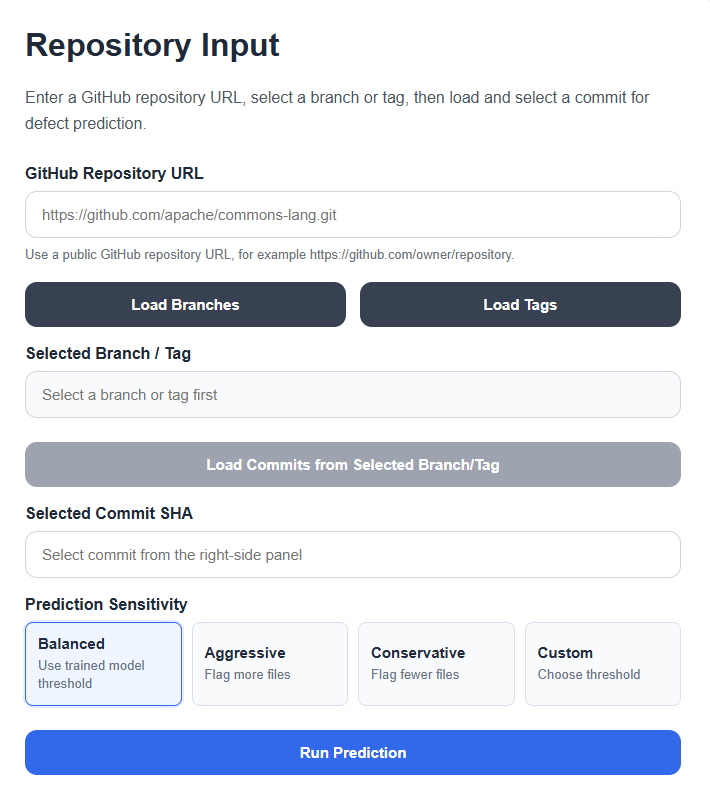
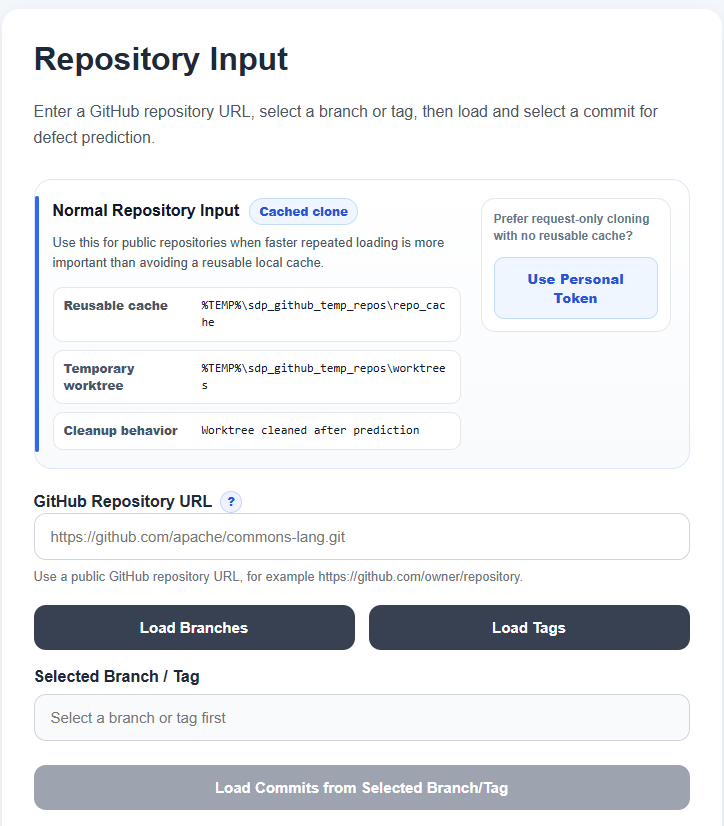
Update README.md

diff --git a/README.md b/README.md
@@ -14,26 +14,73 @@ The system combines GitHub repository inspection, static code metric extraction,
 a trained machine learning model, prediction history, report export, and a
 developer-friendly explanation page.
 
-## Application Preview
+## Application Showcase
 
-### Home Page
+The application is designed as a complete defect prediction workflow: introduce
+the system, select a repository commit, run prediction, review the risk
+dashboard, inspect file-level explanations, and revisit previous prediction
+runs.
 
-![SDP for GitHub home page](readme-assets/HomePage.png)
+### 1. Home Page
 
-### Repository Input Page
+The home page introduces the purpose of SDP for GitHub in student-friendly
+language. It explains risk probability, prediction threshold, and SHAP-style
+explanation before the user starts.
 
-![Repository input page](readme-assets/InputPage.png)
+<p align="center">
+  <img src="readme-assets/HomePage.png" alt="SDP for GitHub home page" width="900" />
+</p>
+
+### 2. Repository Input
+
+The repository input page lets the user enter a GitHub repository URL, choose a
+branch or tag, select a commit, and configure prediction sensitivity. It also
+explains the normal cached clone mode and the request-only PAT clone mode.
+
+<p align="center">
+  <img src="readme-assets/InputPage.png" alt="Repository input page" width="900" />
+</p>
+
+### 3. Prediction Dashboard
+
+After prediction completes, the dashboard summarizes the result with high,
+medium, and low risk counts, average risk, highest-risk file, riskiest folder,
+and language-level risk charts.
+
+<p align="center">
+  <img src="readme-assets/PredictionDashboard.png" alt="Prediction dashboard" width="900" />
+</p>
+
+### 4. File-Level Prediction Results
+
+The result table supports sorting, filtering, row selection, metric value review,
+plain-language explanations, and export selection. This helps the user move from
+an overall dashboard into specific files that may need review.
+
+<p align="center">
+  <img src="readme-assets/PredictionResult.png" alt="Prediction result table" width="900" />
+</p>
+
+### 5. Prediction History
+
+Completed prediction runs are saved into SQLite so users can revisit earlier
+results without immediately rerunning the same analysis.
+
+<p align="center">
+  <img src="readme-assets/History.png" alt="Prediction history page" width="900" />
+</p>
 
 ## What The Application Does
 
-1. Accepts a public GitHub repository URL.
-2. Loads repository branches, tags, and commits.
-3. Lets the user select a commit for analysis.
-4. Extracts static code metrics from supported source files.
-5. Predicts whether each file is likely to be defect-prone.
-6. Displays a risk dashboard, detailed file results, and model explanations.
-7. Saves completed predictions to SQLite for long-term history.
-8. Exports prediction results as a CSV report.
+| Step | Description |
+| --- | --- |
+| 1. Repository input | Accepts a GitHub repository URL and loads branches, tags, and commits. |
+| 2. Commit selection | Lets the user choose the exact commit to analyze. |
+| 3. Metric extraction | Extracts static code metrics and commit-history process metrics from supported files. |
+| 4. ML prediction | Predicts file-level defect risk using the trained model. |
+| 5. Explanation | Shows important metric values and plain-language reasoning for each file. |
+| 6. Dashboard review | Summarizes risk distribution, highest-risk files, folders, and language-level trends. |
+| 7. History and export | Saves completed runs to SQLite and exports selected results as CSV or PDF. |
 
 This project is suitable for a Final Year Project demonstration because it shows
 the full workflow from repository input to model-backed decision support.
@@ -43,11 +90,14 @@ the full workflow from repository input to model-backed decision support.
 - GitHub repository, branch, tag, and commit selection.
 - File-level defect prediction for Java, Python, and C++.
 - Prediction progress status while the backend is analyzing a commit.
+- Configurable prediction sensitivity for adjusting the defect cutoff.
+- Optional PAT request mode for users who do not want a reusable repository
+  mirror cache.
 - Risk dashboard with summary cards, charts, high-risk files, and language
   breakdowns.
 - Search and filtering by file path, language, risk level, prediction label, and
   probability range.
-- CSV report export.
+- CSV and PDF report export for selected prediction rows.
 - Prediction history stored in SQLite.
 - "How It Works" page for non-ML developers and project evaluators.
 - Backend repository caching to reduce repeated GitHub operations.
